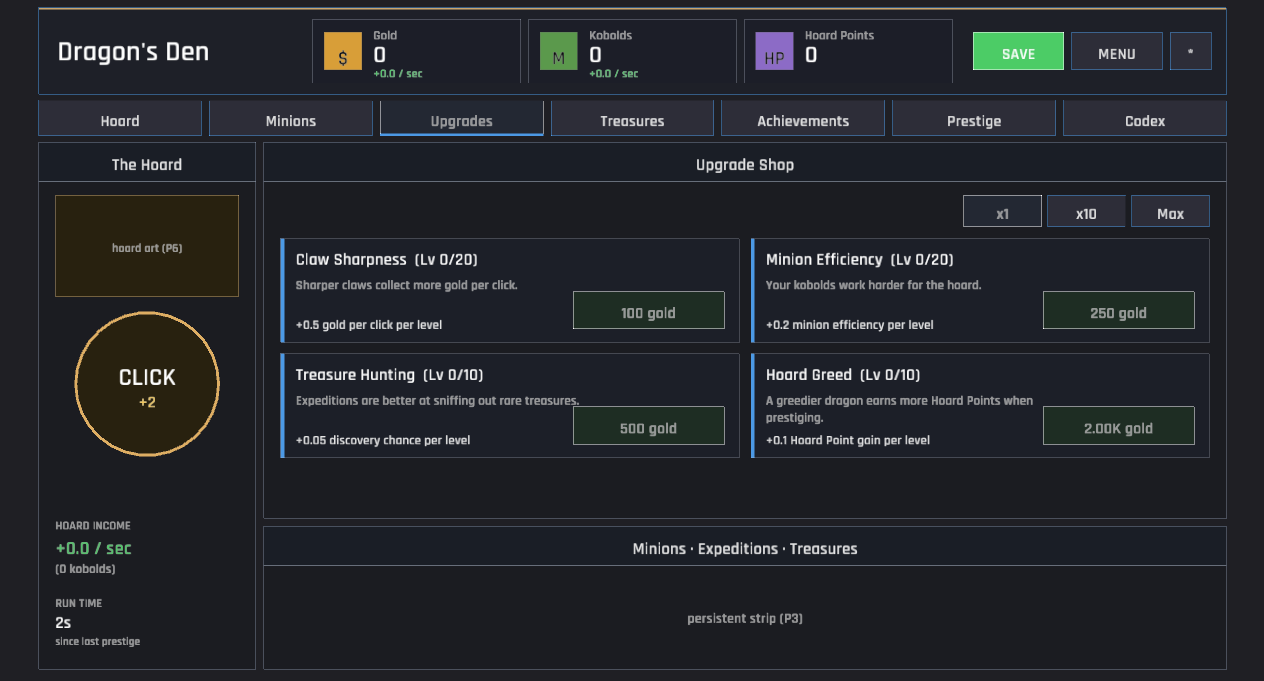
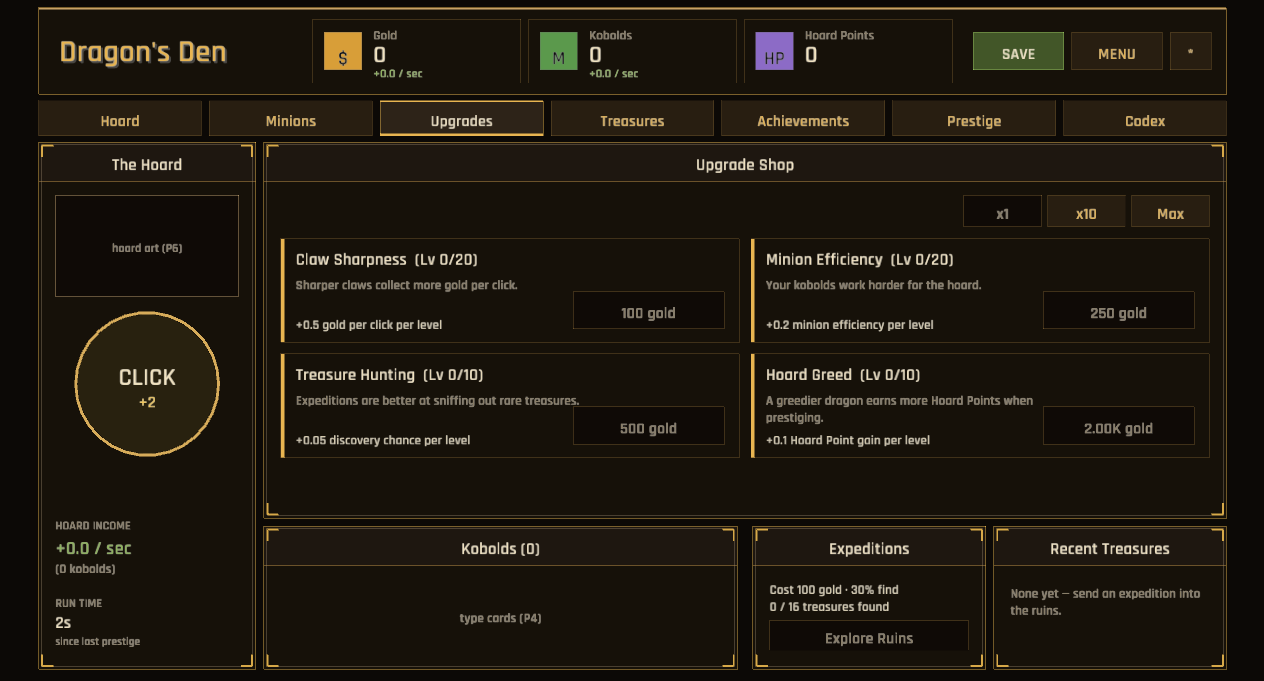
UI redesign PT-b: ornate depth (etched frames, lit active tab, gold title)
- ui::panel: add a thin inset bronze line inside the gold border for an etched
  double-frame read (alongside the existing gold corner brackets).
- Active tab: render as a lit gold-topped panel with a bright label and gold
  underline. It was falling through button()'s disabled path and rendering dark.
- Header wordmark: gold fill with a soft drop shadow, matching the mockup's gold
  "Dragon's Den" title.

Verified via prestige/upgrades captures.

diff --git a/src/ui.rs b/src/ui.rs
@@ -133,16 +133,25 @@ fn draw_tab_bar(ctx: &GameplayCtx<'_>, bar: Rect, actions: &mut Vec<UiAction>) {
     for (index, screen) in Screen::ALL.iter().enumerate() {
         let rect = Rect::new(bar.x + index as f32 * (tab_w + 8.0), bar.y, tab_w, bar.h);
         let active = *screen == ctx.state.screen;
-        let tone = if active {
-            ButtonTone::Primary
-        } else {
-            ButtonTone::Secondary
-        };
-        if button(rect, screen.label(), !active, tone, ctx.mouse) {
-            actions.push(UiAction::SwitchScreen(*screen));
-        }
         if active {
+            // The active tab reads as a lit, gold-topped panel with an underline.
+            draw_surface(
+                rect,
+                &SurfaceStyle::new(shade(theme::PANEL_HEADER, 1.5))
+                    .with_border(1.0, theme::BORDER)
+                    .with_top_highlight(2.0, theme::ACCENT),
+            );
+            draw_text_centered_in_box_ex(
+                screen.label(),
+                rect.x,
+                rect.y,
+                rect.w,
+                rect.h,
+                TextStyle::new(17.0, theme::TEXT_BRIGHT),
+            );
             draw_rectangle(rect.x, rect.bottom() - 3.0, rect.w, 3.0, theme::ACCENT);
+        } else if button(rect, screen.label(), true, ButtonTone::Secondary, ctx.mouse) {
+            actions.push(UiAction::SwitchScreen(*screen));
         }
     }
 }
@@ -160,6 +169,20 @@ pub(crate) fn panel(rect: Rect, title: &str) -> Rect {
         Some(title),
         &style,
         TextStyle::new(18.0, theme::TEXT_BRIGHT),
+    );
+    // Etched depth: a thin inset bronze line plus gold corner brackets.
+    draw_rectangle_lines(
+        rect.x + 3.0,
+        rect.y + 3.0,
+        rect.w - 6.0,
+        rect.h - 6.0,
+        1.0,
+        Color::new(
+            theme::BORDER_DIM.r,
+            theme::BORDER_DIM.g,
+            theme::BORDER_DIM.b,
+            0.6,
+        ),
     );
     theme::draw_corner_marks(rect, theme::BORDER);
     Rect::new(rect.x + 18.0, rect.y + 56.0, rect.w - 36.0, rect.h - 74.0)

diff --git a/src/ui/frame.rs b/src/ui/frame.rs
@@ -61,12 +61,17 @@ pub fn draw_header(ctx: &GameplayCtx<'_>, rect: Rect, actions: &mut Vec<UiAction
             .with_top_highlight(2.0, Color::new(0.95, 0.72, 0.35, 0.75)),
     );
 
+    // Title with a soft drop shadow and gold fill (the mockup's gold wordmark).
+    let title = &ctx.data.config.display_name;
+    let tx = rect.x + 22.0;
+    let ty = rect.y + rect.h / 2.0 + 11.0;
     draw_ui_text_ex(
-        &ctx.data.config.display_name,
-        rect.x + 20.0,
-        rect.y + rect.h / 2.0 + 10.0,
-        TextStyle::new(30.0, theme::TEXT_BRIGHT).params(),
+        title,
+        tx + 2.0,
+        ty + 2.0,
+        TextStyle::new(33.0, Color::new(0.0, 0.0, 0.0, 0.55)).params(),
     );
+    draw_ui_text_ex(title, tx, ty, TextStyle::new(33.0, theme::ACCENT).params());
 
     // Right-aligned controls: gear, then Menu, then Save.
     let btn_y = rect.y + (rect.h - 40.0) / 2.0;

diff --git a/UI_REDESIGN_PLAN.md b/UI_REDESIGN_PLAN.md
@@ -177,9 +177,11 @@ files. Whole UI now reads gold-on-brown (verified hoard/prestige captures).
   upgrades) → `theme::PANEL` + `theme::BORDER_DIM`.
 - *Verify: capture hoard/prestige/upgrades — the whole UI reads gold-on-brown.*
 
-**PT-b — ornate depth (after PT-a):** double/insét gold borders, a faint panel gradient or vignette, the
-"DRAGON'S DEN" title in a heavier gold treatment, active-tab gold underline + brighter fill, subtle warm hover
-glows. Corner filigree beyond simple brackets can graduate into a toolkit `FramedPanel` upgrade.
+**PT-b — ornate depth: ✅ DONE.** `ui::panel` gained an inset bronze line under the gold border (etched double-frame
+read); the active tab now renders as a lit gold-topped panel with a bright label + gold underline (was falling
+through the disabled path and rendering dark); the "Dragon's Den" wordmark is now a gold treatment with a soft drop
+shadow. Verified via prestige/upgrades captures. Remaining ornate ideas (panel gradient/vignette, corner filigree as
+a toolkit `FramedPanel`) deferred to P7/toolkit work.
 
 Each phase: `cargo fmt` + `cargo clippy -D warnings` + `cargo test`, then `scripts/capture_ui.ps1` for the touched
 scenes.
